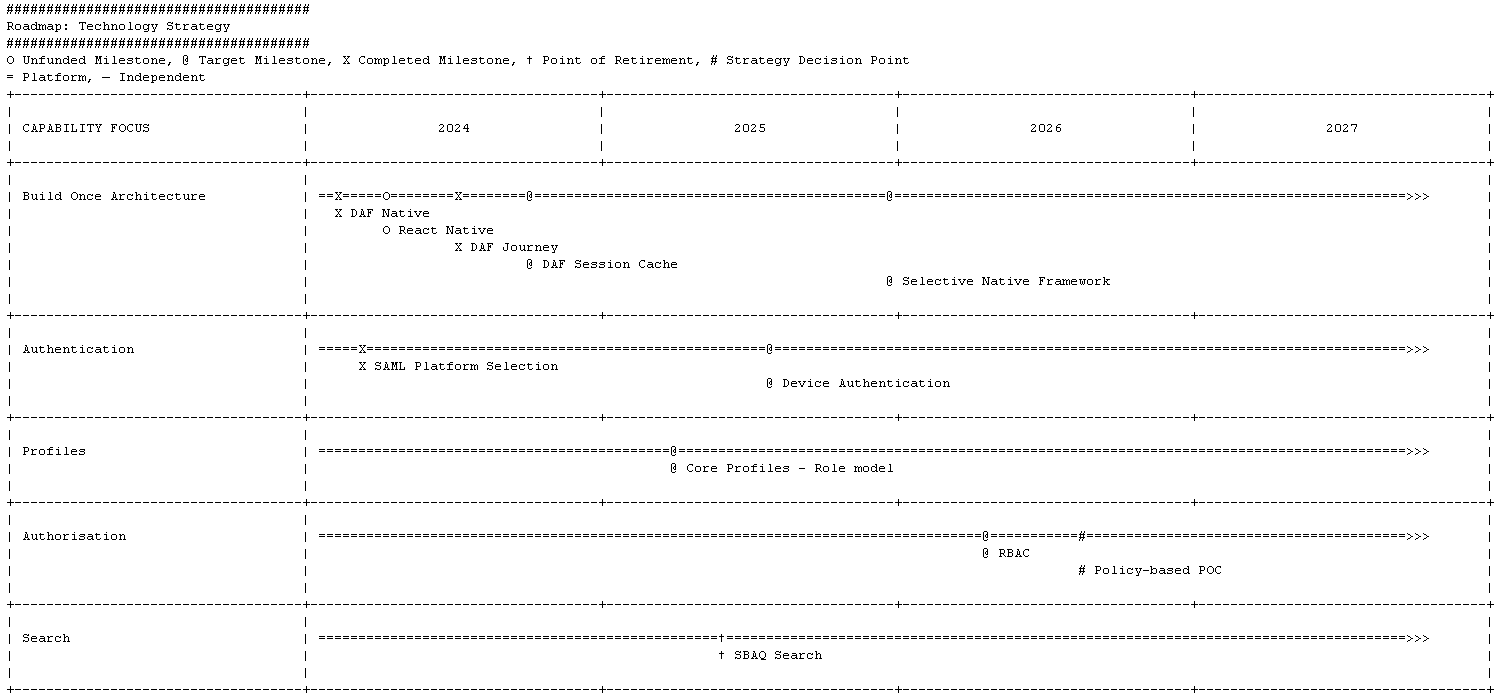
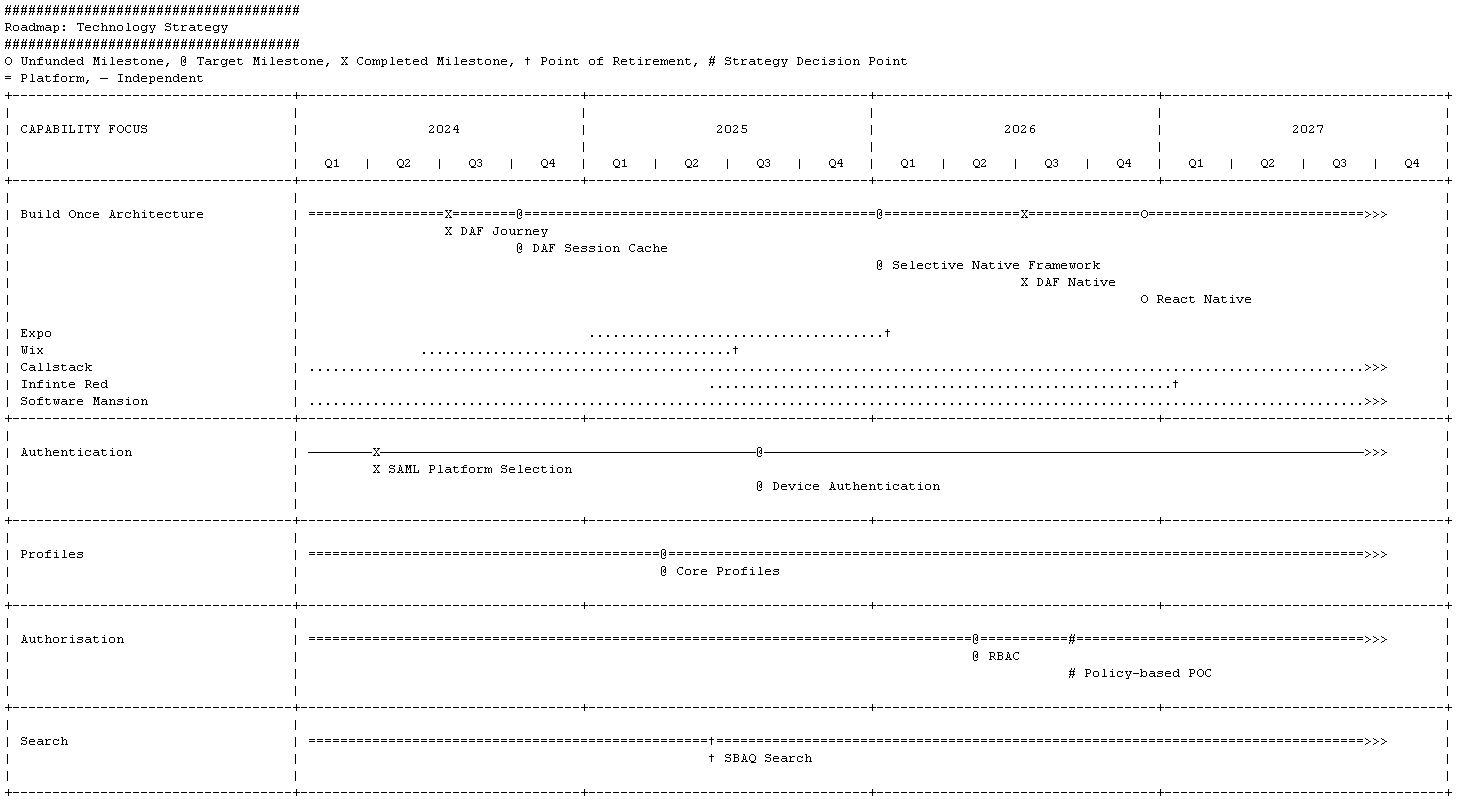
product timelines in ascii

diff --git a/drawio_roadmaps/classes/swimlane.py b/drawio_roadmaps/classes/swimlane.py
@@ -4,7 +4,7 @@ from drawio_roadmaps.enums.swimlane_type import SwimlaneType
 from drawio_roadmaps.renderer_manager import RendererManager
 
 from drawio_roadmaps.config import RoadmapConfig as config
-
+from datetime import datetime, date
 
 renderer_manager = RendererManager()
 
@@ -98,15 +98,53 @@ class Swimlane:
 
         result = swimlane_pad + swimlane_str + events_visual_line + events_str + swimlane_pad
 
+        # for lifeline in self.lifelines:
+        #     # Todo: should go into lifeline renderer
+        #     lifeline_str = f"| {lifeline.name}"
+        #     lifeline_str += ' ' * (segment_width - len(lifeline_str) + 1) + '|'
+        #
+        #     lifeline_str += (' ' + '.' * (((segment_width + 1) * (years)) - 12)
+        #                           + '>>>       ' + '|\n')
+        #
+        #     result += lifeline_str + swimlane_pad
+        #
+        # return result
+
+        # GPT-4
         for lifeline in self.lifelines:
-            # Todo: should go into lifeline renderer
-            lifeline_str = f"| {lifeline.name}"
+            # Check if from_date is provided; otherwise, start at the beginning of the roadmap
+            character_per_days = 365 // segment_width
+
+            if lifeline.from_date is not None:
+                start_offset = lifeline.from_date - datetime.strptime(str(self.roadmap.start_year), "%Y").date()
+                start_offset = start_offset.days // character_per_days
+            else:
+                start_offset = 1
+
+            # Check if to_date is provided; otherwise, end at the last year of the roadmap
+            if lifeline.to_date is not None:
+                end_offset = lifeline.to_date - datetime.strptime(str(self.roadmap.start_year), "%Y").date()
+                end_offset = end_offset.days // character_per_days
+                ending = '†'
+            else:
+                end_offset = (years * segment_width) - 7
+                ending = '>>>'
+
+
+            # Construct the lifeline string with appropriate padding and periods
+            lifeline_str = (f"| {lifeline.name}")
             lifeline_str += ' ' * (segment_width - len(lifeline_str) + 1) + '|'
 
-            lifeline_str += (' ' + '.' * (((segment_width + 1) * (years)) - 12)
-                                  + '>>>       ' + '|\n')
 
-            result += lifeline_str + swimlane_pad
+            leading_space = ' ' * start_offset
+            lifeline_str += leading_space
+            lifeline_space = '.' * (end_offset - start_offset) + ending
+            trailing_space = ' ' * ((years * (segment_width + 1) - len(leading_space + lifeline_space)) - 1)
+            lifeline_str += lifeline_space + trailing_space + '|\n'
+
+            # Append the constructed lifeline string to the result with a newline
+            result += lifeline_str
+
 
         return result
 

diff --git a/drawio_roadmaps/loaders/loaders.py b/drawio_roadmaps/loaders/loaders.py
@@ -48,10 +48,10 @@ class YamlRoadmapLoader(RoadmapLoader):
 
                 for lifeline_data in swimlane_data.get('lifelines', []):
                     lifeline = LifeLine(lifeline_data['name'])
-                    # for event_data in lifeline_data.get('events', []):
-                    #     event_type = EventType[event_data['type']] if 'type' in event_data else None
-                    #     event = Event(event_data['name'], event_data['date'], event_type)
-                    #     lifeline.add_event(event)
+                    if 'from' in lifeline_data:
+                        lifeline.set_from(lifeline_data['from'])
+                    if 'to' in lifeline_data:
+                        lifeline.set_to(lifeline_data['to'])
                     swimlane.add_lifeline(lifeline)
 
                 roadmap.add_swimlane(swimlane)

diff --git a/drawio_roadmaps/classes/lifeline.py b/drawio_roadmaps/classes/lifeline.py
@@ -9,6 +9,8 @@ class LifeLine:
         self.roadmap = roadmap
         self.swimlane = swimlane
         self.roadmap_renderer = None
+        self.from_date = from_date
+        self.to_date = to_date
 
     def __str__(self, indent=0):
         lifeline_str = ' ' * indent + f"LifeLine: {self.name} [{self.type.metadata_drawio.color}]\n"
@@ -16,6 +18,12 @@ class LifeLine:
             lifeline_str += event.__str__(indent + 4)
         lifeline_str += '\n'
         return lifeline_str
+
+    def set_from(self, from_date):
+        self.from_date = from_date
+
+    def set_to(self, to_date):
+        self.to_date = to_date
 
     def set_renderer(self, renderer):
         self.renderer = renderer

diff --git a/drawio_roadmaps/main.py b/drawio_roadmaps/main.py
@@ -3,10 +3,6 @@ import sys
 from drawio_roadmaps.loaders.loaders import RoadmapLoaderFactory
 from drawio_roadmaps.renderer_manager import RendererManager, RendererType
 
-
-# ToDo: Loaders need sorting out and moving out to the loaders module. No need for them to sit here.
-
-
 def main():
     if len(sys.argv) < 4:
         print("Usage: python main.py <source_type> <renderer_type> <source_path>")

diff --git a/drawio_roadmaps/drawio/drawio_tools.py b/drawio_roadmaps/drawio/drawio_tools.py
@@ -3,7 +3,7 @@ from urllib.parse import quote, unquote, quote_plus
 
 # functions courtesy of
 # https://stackoverflow.com/questions/46351275/using-pako-deflate-with-python
-# TODO: refactor
+# TODO: refactor - it seems like drawio_tools and helpers and shared functions could all be one file
 def js_encode_uri_component(data):
     return quote(data, safe='~()*!.\'')
 

diff --git a/drawio_roadmaps/classes/event.py b/drawio_roadmaps/classes/event.py
@@ -27,6 +27,7 @@ class Event:
 
     def __str__(self):
         # ToDo: we should remove the marker and put output specific implemenstation in the renderers
+        # Todo: consider further abstraction to roadmap element with ABCs?
         return f"{self.event_type.marker} {self.description}"
 
     def __repr__(self):

diff --git a/drawio_roadmaps/config.py b/drawio_roadmaps/config.py
@@ -2,6 +2,8 @@
 DRAWIO_EXECUTABLE_PATH = "C:\\Program Files\\draw.io\\draw.io.exe"
 
 class RoadmapConfig:
+    # Todo Move this to the roadmap definition/data
+    # maybe make it optional or in some roadmap config when loading from DB
     class Global:
         show_quarters = True
 

diff --git a/README.md b/README.md
@@ -30,7 +30,8 @@ This project allows users to create and visualize roadmaps in various formats, i
 - Render roadmaps in ASCII format for quick visualization in text environments.
 - Generate DrawIO files for detailed graphical representation.
 - Flexible renderer system allowing for future expansion to other formats.
-- Product lifelines in each swimlane, global switch to show swimlane timeline or both timelines and product lifelines. (In development, implemented in ASCII only for now, see lifelines under roadmap.yaml)
+- Product lifelines in each swimlane (Ascii only for now)
+- Global switch to show product lifelines (Ascii only for now)
 
 ## Setup
 
